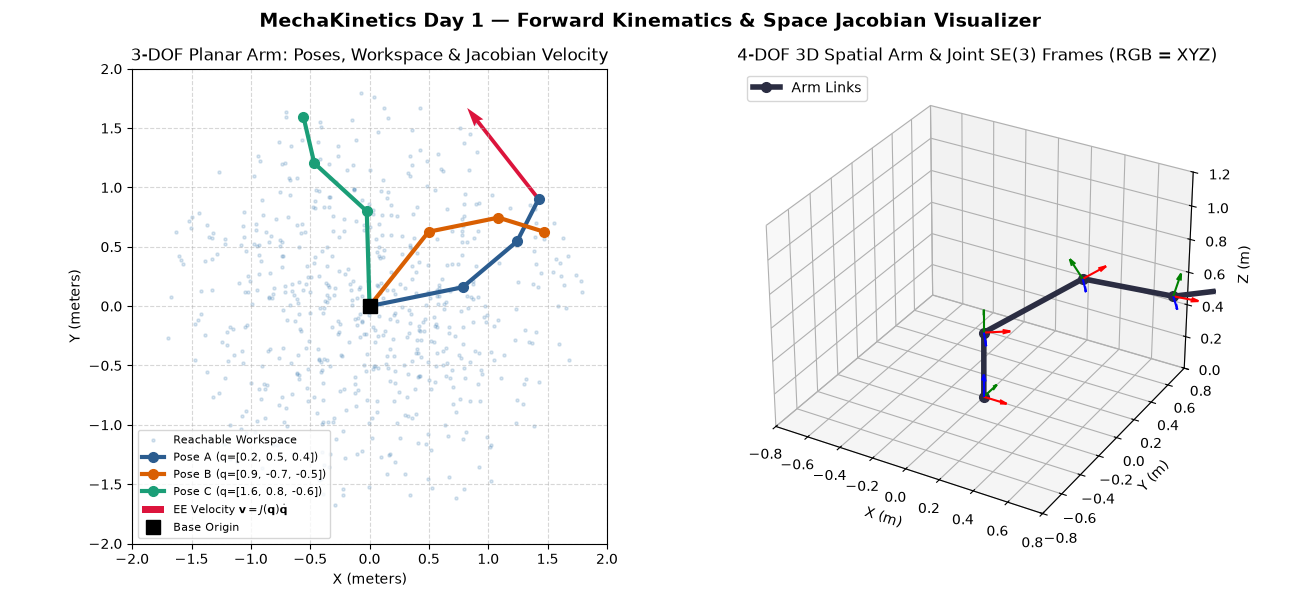
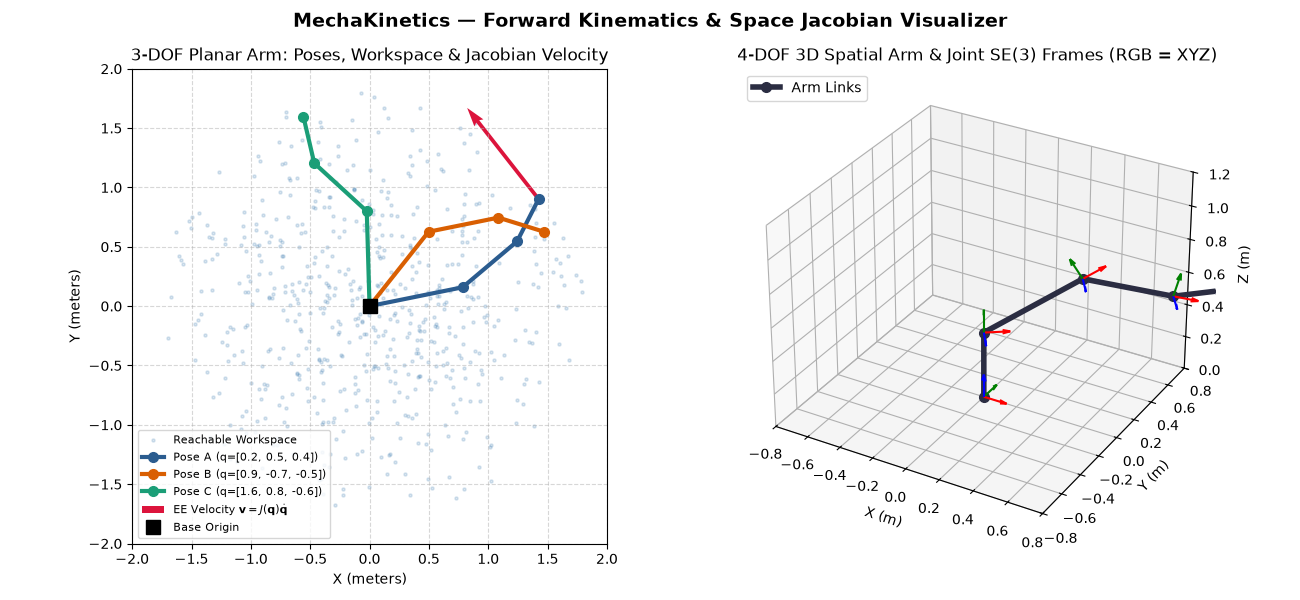
docs: add visualizer plots to README

Changed region(s): [[0.1846, 0.0, 0.8, 0.06]]

diff --git a/README.md b/README.md
@@ -1,7 +1,8 @@
 # MechaKinetics 🦾⚙
 
 **MechaKinetics** is an open-source Python engineering toolkit for robotic manipulator kinematics, omnidirectional mobile robot locomotion, smooth trajectory generation, and mechatronic actuator/drivetrain sizing.
-![MechaKinetics Visualizer](Figure_1.png) [MechaKinetics Visualizer](Figure_2.png)
+![MechaKinetics Visualizer](Figure_1.png) 
+![MechaKinetics Visualizer](Figure_2.png)
 ## Who It's For
 Built for mechatronics engineers, mechanical designers, and robotics developers who need a lightweight, well-tested Python library and CLI for kinematic verification, motion profiling, and motor/gearbox selection before CAD freeze or firmware deployment.
 
